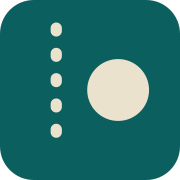
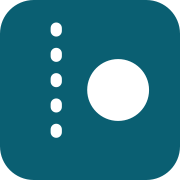
Ordnance on white, and rename the colour tokens to their jobs
Replaces the paper palette with a cool, near-neutral one on a white ground:
seal #0a5f72 for a check that passed, beacon #5b3a97 for the window where the
deciding number cannot yet exist, fault #9c1f35 for a check that failed. The
three sit 70 degrees apart in hue at the closest, so the states separate by
colour and not only by reading the label.

Two things the white ground broke that paper had hidden:

--faint was 3.78:1 on white, which is fine for large text and not for the
captions it is actually used in. Darkened to 5.09:1.

An input on a white page with a 1.4:1 border is not an identifiable control
boundary — WCAG 1.4.11 wants 3:1 for that, and the fill no longer separated it
from the page either. Controls now use a dedicated --control line at 3.39:1,
and cards carry a tint so they read as surfaces without needing heavy edges.

Tokens renamed from --teal/--amber to --seal/--beacon. --amber holding a
violet is the kind of thing that survives until someone trusts the name
instead of the value.

Favicon and theme-color follow the new seal. The photograph is no longer the
same colour as the page, so it reads as a picture on a page rather than as
part of the ground — which is the trade the brief accepted when brown and tan
came off the table.

Every text value clears AA on both the page and the card tint; weakest is
--faint at 4.82:1 on the tint.

diff --git a/web/app/assets/css/main.css b/web/app/assets/css/main.css
@@ -6,25 +6,35 @@
   paper and there is no second theme to keep in step. color-scheme is pinned
   to light so form controls and scrollbars do not render dark underneath it.
 */
+/*
+  Ordnance, on white — one deliberate look, no second theme.
+
+  The three accents sit at least 60 degrees apart in hue so a reader
+  separates ok, skip and fail by colour rather than by reading the label.
+  Every text value clears AA on both the page and the card tint; --control
+  is a separate, darker line because on a white page a 1.4:1 border is not
+  an identifiable control boundary (WCAG 1.4.11 wants 3:1).
+*/
 :root {
   color-scheme: light;
 
-  --ground:   #eae2cc;
-  --surface:  #f4efe0;
-  --raised:   #faf7ee;
-  --ink:      #2c2618;
-  --muted:    #5b5340;
-  --faint:    #8a7f65;
-  --line:     #cdc2a4;
-  --rule:     #ded4bb;
+  --ground:   #ffffff;
+  --surface:  #f7f9fb;
+  --raised:   #ffffff;
+  --ink:      #0f1620;
+  --muted:    #4b5566;
+  --faint:    #656f7e;
+  --line:     #dbe3ea;
+  --control:  #7f8d9c;
+  --rule:     #e6ecf2;
 
   /* Each carries a job in the protocol, not a mood. */
-  --teal:     #0b5f5f;
-  --teal-bg:  #d9e6e2;
-  --amber:    #8a5410;
-  --amber-bg: #f0e3cb;
-  --fault:    #8f1d1d;
-  --fault-bg: #f0dcd6;
+  --seal:     #0a5f72;
+  --seal-bg:  #e0edf1;
+  --beacon:    #5b3a97;
+  --beacon-bg: #eae3f4;
+  --fault:    #9c1f35;
+  --fault-bg: #f6e2e6;
 
   --mono: "IBM Plex Mono", ui-monospace, SFMono-Regular, Menlo, monospace;
   --sans: "IBM Plex Sans", ui-sans-serif, system-ui, -apple-system, sans-serif;
@@ -44,9 +54,9 @@ body {
   -webkit-font-smoothing: antialiased;
 }
 
-a { color: var(--teal); text-decoration: none; }
+a { color: var(--seal); text-decoration: none; }
 a:hover { text-decoration: underline; }
-:focus-visible { outline: 2px solid var(--teal); outline-offset: 2px; border-radius: 2px; }
+:focus-visible { outline: 2px solid var(--seal); outline-offset: 2px; border-radius: 2px; }
 
 h1, h2, h3 { font-family: var(--serif); font-weight: 600; letter-spacing: -0.01em; margin: 0; text-wrap: balance; }
 h1 { font-size: clamp(1.7rem, 4vw, 2.3rem); line-height: 1.12; }
@@ -58,7 +68,7 @@ p { margin: 0 0 14px; }
 
 .eyebrow {
   font-family: var(--mono); font-size: 0.68rem; letter-spacing: 0.14em;
-  text-transform: uppercase; color: var(--teal); margin: 0 0 8px;
+  text-transform: uppercase; color: var(--seal); margin: 0 0 8px;
 }
 .muted { color: var(--muted); }
 .mono { font-family: var(--mono); font-size: 0.85em; }
@@ -82,26 +92,26 @@ label { display: block; font-size: 0.8rem; font-weight: 600; margin-bottom: 5px;
 input, select, textarea {
   font: inherit; width: 100%; padding: 9px 11px;
   background: var(--raised); color: var(--ink);
-  border: 1px solid var(--line); border-radius: 3px;
+  border: 1px solid var(--control); border-radius: 3px;
 }
 textarea { font-family: var(--mono); font-size: 0.85rem; min-height: 130px; resize: vertical; }
 
 button {
   font: inherit; font-weight: 600; font-size: 0.88rem; cursor: pointer;
   padding: 9px 16px; border-radius: 3px;
-  background: var(--teal); color: var(--surface); border: 1px solid var(--teal);
+  background: var(--seal); color: var(--surface); border: 1px solid var(--seal);
 }
 button:hover:not(:disabled) { filter: brightness(1.12); }
 button:disabled { opacity: 0.45; cursor: not-allowed; }
-button.ghost { background: transparent; color: var(--teal); }
+button.ghost { background: transparent; color: var(--seal); }
 
 .pill {
   font-family: var(--mono); font-size: 0.68rem; letter-spacing: 0.06em;
   padding: 2px 9px; border-radius: 10px; text-transform: uppercase; white-space: nowrap;
 }
-.pill.open      { background: var(--amber-bg); color: var(--amber); }
-.pill.committed { background: var(--teal-bg);  color: var(--teal); }
-.pill.drawn     { background: var(--teal-bg);  color: var(--teal); }
+.pill.open      { background: var(--beacon-bg); color: var(--beacon); }
+.pill.committed { background: var(--seal-bg);  color: var(--seal); }
+.pill.drawn     { background: var(--seal-bg);  color: var(--seal); }
 
 .grid { display: grid; gap: 14px; grid-template-columns: repeat(auto-fill, minmax(260px, 1fr)); }
 
@@ -110,7 +120,7 @@ button.ghost { background: transparent; color: var(--teal); }
 .kv dd { margin: 0; min-width: 0; font-family: var(--mono); font-size: 0.82rem; overflow-wrap: anywhere; }
 
 .error { background: var(--fault-bg); color: var(--fault); padding: 10px 13px; border-radius: 3px; font-size: 0.88rem; }
-.notice { background: var(--amber-bg); color: var(--amber); padding: 10px 13px; border-radius: 3px; font-size: 0.88rem; }
+.notice { background: var(--beacon-bg); color: var(--beacon); padding: 10px 13px; border-radius: 3px; font-size: 0.88rem; }
 
 nav.top {
   border-bottom: 1px solid var(--rule); background: var(--surface);
@@ -124,7 +134,7 @@ nav.top .brand { font-family: var(--serif); font-size: 1.15rem; font-weight: 600
 nav.top a { font-size: 0.86rem; color: var(--muted); }
 /* The brand is not a nav item: on "/" it matched router-link-active and the
    wordmark turned teal, so the logo changed colour depending on the page. */
-nav.top a.router-link-active:not(.brand) { color: var(--teal); font-weight: 600; }
+nav.top a.router-link-active:not(.brand) { color: var(--seal); font-weight: 600; }
 nav.top a.brand { color: var(--ink); }
 
 table { border-collapse: collapse; width: 100%; font-size: 0.86rem; }

diff --git a/web/app/pages/draws/[id]/[[slug]].vue b/web/app/pages/draws/[id]/[[slug]].vue
@@ -314,7 +314,7 @@ onMounted(() => {
           </button>
         </div>
         <div v-if="selfResult" style="margin-top: 12px">
-          <p v-if="selfResult.found" style="color: var(--teal); font-weight: 600">
+          <p v-if="selfResult.found" style="color: var(--seal); font-weight: 600">
             Found — you are entry #{{ selfResult.index }} of {{ leafList.size }} in the committed
             roster.
           </p>
@@ -367,7 +367,7 @@ onMounted(() => {
           <button class="ghost" @click="getReceipt">Fetch and check</button>
         </div>
         <div v-if="receiptResult" style="margin-top: 12px">
-          <p :style="{ color: receiptResult.ok ? 'var(--teal)' : 'var(--fault)', fontWeight: 600 }">
+          <p :style="{ color: receiptResult.ok ? 'var(--seal)' : 'var(--fault)', fontWeight: 600 }">
             {{ receiptResult.ok ? 'Receipt verifies' : 'Receipt does NOT verify' }} — {{ receiptResult.label }}
           </p>
           <p class="hash">root {{ receiptResult.root }}</p>
@@ -391,7 +391,7 @@ onMounted(() => {
 }
 .wrank {
   font-family: var(--mono); font-size: 0.72rem; color: var(--surface);
-  background: var(--teal); border-radius: 10px; padding: 2px 9px; flex: none;
+  background: var(--seal); border-radius: 10px; padding: 2px 9px; flex: none;
 }
 .wlabel { flex: 1; font-weight: 500; word-break: break-all; }
 </style>

diff --git a/web/app/components/RoundCountdown.vue b/web/app/components/RoundCountdown.vue
@@ -26,16 +26,16 @@ const { label, published } = useCountdown(() => props.round)
 
 <style scoped>
 .countdown {
-  background: var(--amber-bg); border: 1px solid var(--amber);
+  background: var(--beacon-bg); border: 1px solid var(--beacon);
   border-radius: 3px; padding: 18px 20px;
 }
-.countdown.published { background: var(--teal-bg); border-color: var(--teal); }
+.countdown.published { background: var(--seal-bg); border-color: var(--seal); }
 .num {
   font-family: var(--mono); font-size: 2rem; font-weight: 500;
-  line-height: 1.1; color: var(--amber); font-variant-numeric: tabular-nums;
+  line-height: 1.1; color: var(--beacon); font-variant-numeric: tabular-nums;
 }
-.published .num { color: var(--teal); font-size: 1.1rem; }
-.sub { font-size: 0.85rem; color: var(--amber); margin-top: 4px; }
-.published .sub { color: var(--teal); }
-.why { font-size: 0.8rem; color: var(--amber); margin: 12px 0 0; max-width: 56ch; opacity: 0.9; }
+.published .num { color: var(--seal); font-size: 1.1rem; }
+.sub { font-size: 0.85rem; color: var(--beacon); margin-top: 4px; }
+.published .sub { color: var(--seal); }
+.why { font-size: 0.8rem; color: var(--beacon); margin: 12px 0 0; max-width: 56ch; opacity: 0.9; }
 </style>

diff --git a/web/app/pages/index.vue b/web/app/pages/index.vue
@@ -156,7 +156,7 @@ useHead({
   min-width: 0;
 }
 .hero-copy { min-width: 0; display: flex; flex-direction: column; justify-content: center; }
-.hero .eyebrow { color: #6f5320; }
+.hero .eyebrow { color: var(--seal); }
 .lede {
   font-family: var(--serif); font-size: 1.22rem; line-height: 1.5;
   color: var(--muted); margin-bottom: 0;
@@ -174,6 +174,7 @@ useHead({
   display: block; width: 100%; height: 100%;
   max-height: 344px;
   object-fit: cover;
+  border-radius: 3px;
 }
 .hero-art figcaption {
   margin-top: 6px; font-size: 0.78rem; color: var(--muted);
@@ -187,10 +188,10 @@ useHead({
 .btn {
   display: inline-block; font-weight: 600; font-size: 0.88rem;
   padding: 10px 18px; border-radius: 3px;
-  background: var(--teal); color: #f6f2e6; border: 1px solid var(--teal);
+  background: var(--seal); color: #ffffff; border: 1px solid var(--seal);
 }
 .btn:hover { text-decoration: none; filter: brightness(1.12); }
-.btn.ghost { background: transparent; color: var(--teal); }
+.btn.ghost { background: transparent; color: var(--seal); }
 
 @media (max-width: 760px) {
   .hero { grid-template-columns: 1fr; gap: 22px; padding-block: 18px 8px; }

diff --git a/web/app/pages/receipt.vue b/web/app/pages/receipt.vue
@@ -83,13 +83,13 @@ function check() {
   ticket does not invert.
 */
 .ticket {
-  background: var(--raised);
+  background: var(--surface);
   color: var(--ink);
   border: 1px solid var(--line);
   border-radius: 3px;
   padding: 24px 26px;
   position: relative;
-  box-shadow: 0 1px 0 rgba(44, 38, 24, 0.06), 0 8px 24px -14px rgba(44, 38, 24, 0.5);
+  box-shadow: 0 1px 0 rgba(15, 22, 32, 0.04), 0 10px 26px -16px rgba(15, 22, 32, 0.45);
 }
 .ticket::before {
   content: '';
@@ -101,7 +101,7 @@ function check() {
 .ticket-title { font-family: var(--serif); font-size: 1.12rem; font-weight: 600; }
 .ticket-verdict {
   font-family: var(--serif); font-size: 1.3rem; margin: 22px 0 0;
-  color: var(--teal);
+  color: var(--seal);
 }
 .ticket.bad .ticket-verdict { color: #8f1d1d; }
 .ticket :deep(.kv dt) { color: var(--muted); }
@@ -111,5 +111,5 @@ function check() {
   background: rgba(11, 95, 95, 0.09);
   font-size: 0.86rem; line-height: 1.55; color: var(--ink);
 }
-.ticket-note a { color: var(--teal); font-weight: 600; }
+.ticket-note a { color: var(--seal); font-weight: 600; }
 </style>

diff --git a/web/app/components/CheckList.vue b/web/app/components/CheckList.vue
@@ -43,12 +43,12 @@ defineProps<{ report: Report }>()
   font-family: var(--mono); font-size: 0.66rem; letter-spacing: 0.06em;
   padding: 2px 0; border-radius: 2px; text-align: center;
 }
-.tag.ok   { background: var(--teal-bg);  color: var(--teal); }
-.tag.skip { background: var(--amber-bg); color: var(--amber); }
+.tag.ok   { background: var(--seal-bg);  color: var(--seal); }
+.tag.skip { background: var(--beacon-bg); color: var(--beacon); }
 .tag.fail { background: var(--fault-bg); color: var(--fault); }
 .detail { font-family: var(--mono); font-size: 0.74rem; color: var(--faint); text-align: right; }
 .verdict { margin: 16px 0 0; font-weight: 600; font-size: 0.92rem; }
-.verdict.pass { color: var(--teal); }
+.verdict.pass { color: var(--seal); }
 .verdict.fail { color: var(--fault); }
 .footnote { font-size: 0.8rem; margin: 6px 0 0; }
 @media (max-width: 620px) {

diff --git a/web/app/components/AdmissionList.vue b/web/app/components/AdmissionList.vue
@@ -47,10 +47,10 @@ async function copy() {
 
 <style scoped>
 .admissions {
-  background: var(--amber-bg); border: 1px solid var(--amber);
+  background: var(--beacon-bg); border: 1px solid var(--beacon);
   border-radius: 3px; padding: 16px 18px; margin-top: 14px;
 }
-.admissions h3 { color: var(--amber); }
-.why { font-size: 0.82rem; color: var(--amber); max-width: 62ch; opacity: 0.92; }
-.admissions td, .admissions th { border-bottom-color: color-mix(in srgb, var(--amber) 25%, transparent); }
+.admissions h3 { color: var(--beacon); }
+.why { font-size: 0.82rem; color: var(--beacon); max-width: 62ch; opacity: 0.92; }
+.admissions td, .admissions th { border-bottom-color: color-mix(in srgb, var(--beacon) 25%, transparent); }
 </style>

diff --git a/web/app/pages/verify.vue b/web/app/pages/verify.vue
@@ -98,5 +98,5 @@ function onDrop(ev: DragEvent) {
 .drop { border-style: dashed; }
 .winners { list-style: none; padding: 0; margin: 12px 0 18px; }
 .winners li { display: flex; gap: 12px; align-items: baseline; padding: 7px 0; border-bottom: 1px solid var(--rule); }
-.wrank { font-family: var(--mono); font-size: 0.7rem; color: var(--surface); background: var(--teal); border-radius: 10px; padding: 2px 8px; }
+.wrank { font-family: var(--mono); font-size: 0.7rem; color: var(--surface); background: var(--seal); border-radius: 10px; padding: 2px 8px; }
 </style>

diff --git a/web/app/pages/log.vue b/web/app/pages/log.vue
@@ -79,8 +79,8 @@ onMounted(load)
       </p>
     </section>
 
-    <section v-if="abandoned.length" class="card" style="border-color: var(--amber)">
-      <h2 style="color: var(--amber)">
+    <section v-if="abandoned.length" class="card" style="border-color: var(--beacon)">
+      <h2 style="color: var(--beacon)">
         {{ abandoned.length }} draw{{ abandoned.length === 1 ? '' : 's' }} with no published result
       </h2>
       <p class="muted" style="font-size: 0.85rem">

diff --git a/web/nuxt.config.ts b/web/nuxt.config.ts
@@ -36,7 +36,7 @@ export default defineNuxtConfig({
         { name: 'viewport', content: 'width=device-width, initial-scale=1' },
         // The seal, so a mobile browser's chrome joins the record side of the
         // palette rather than picking its own colour.
-        { name: 'theme-color', content: '#0b5f5f' },
+        { name: 'theme-color', content: '#0a5f72' },
       ],
       link: [
         { rel: 'icon', type: 'image/svg+xml', href: '/favicon.svg' },

diff --git a/web/app/components/BrandMark.vue b/web/app/components/BrandMark.vue
@@ -41,9 +41,9 @@ const height = computed(() => Math.round((props.size / 96) * 64))
 
 <style scoped>
 .mark .edge   { stroke: var(--ink); }
-.mark .stub   { fill: var(--teal); }
+.mark .stub   { fill: var(--seal); }
 .mark .perf   { stroke: var(--surface); }
-.mark .beacon { fill: var(--amber); }
+.mark .beacon { fill: var(--beacon); }
 
 /* Single colour, for stamps and print. */
 .mark.mono .edge   { stroke: currentColor; }

diff --git a/web/app/app.vue b/web/app/app.vue
@@ -23,5 +23,5 @@ nav.top a.brand { display: inline-flex; align-items: center; gap: 9px; }
 nav.top a.brand:hover { text-decoration: none; }
 nav.top a.admin { margin-left: auto; color: var(--faint); }
 .vis { border-color: var(--line); }
-.vis.listed { border-color: var(--teal); }
+.vis.listed { border-color: var(--seal); }
 </style>
